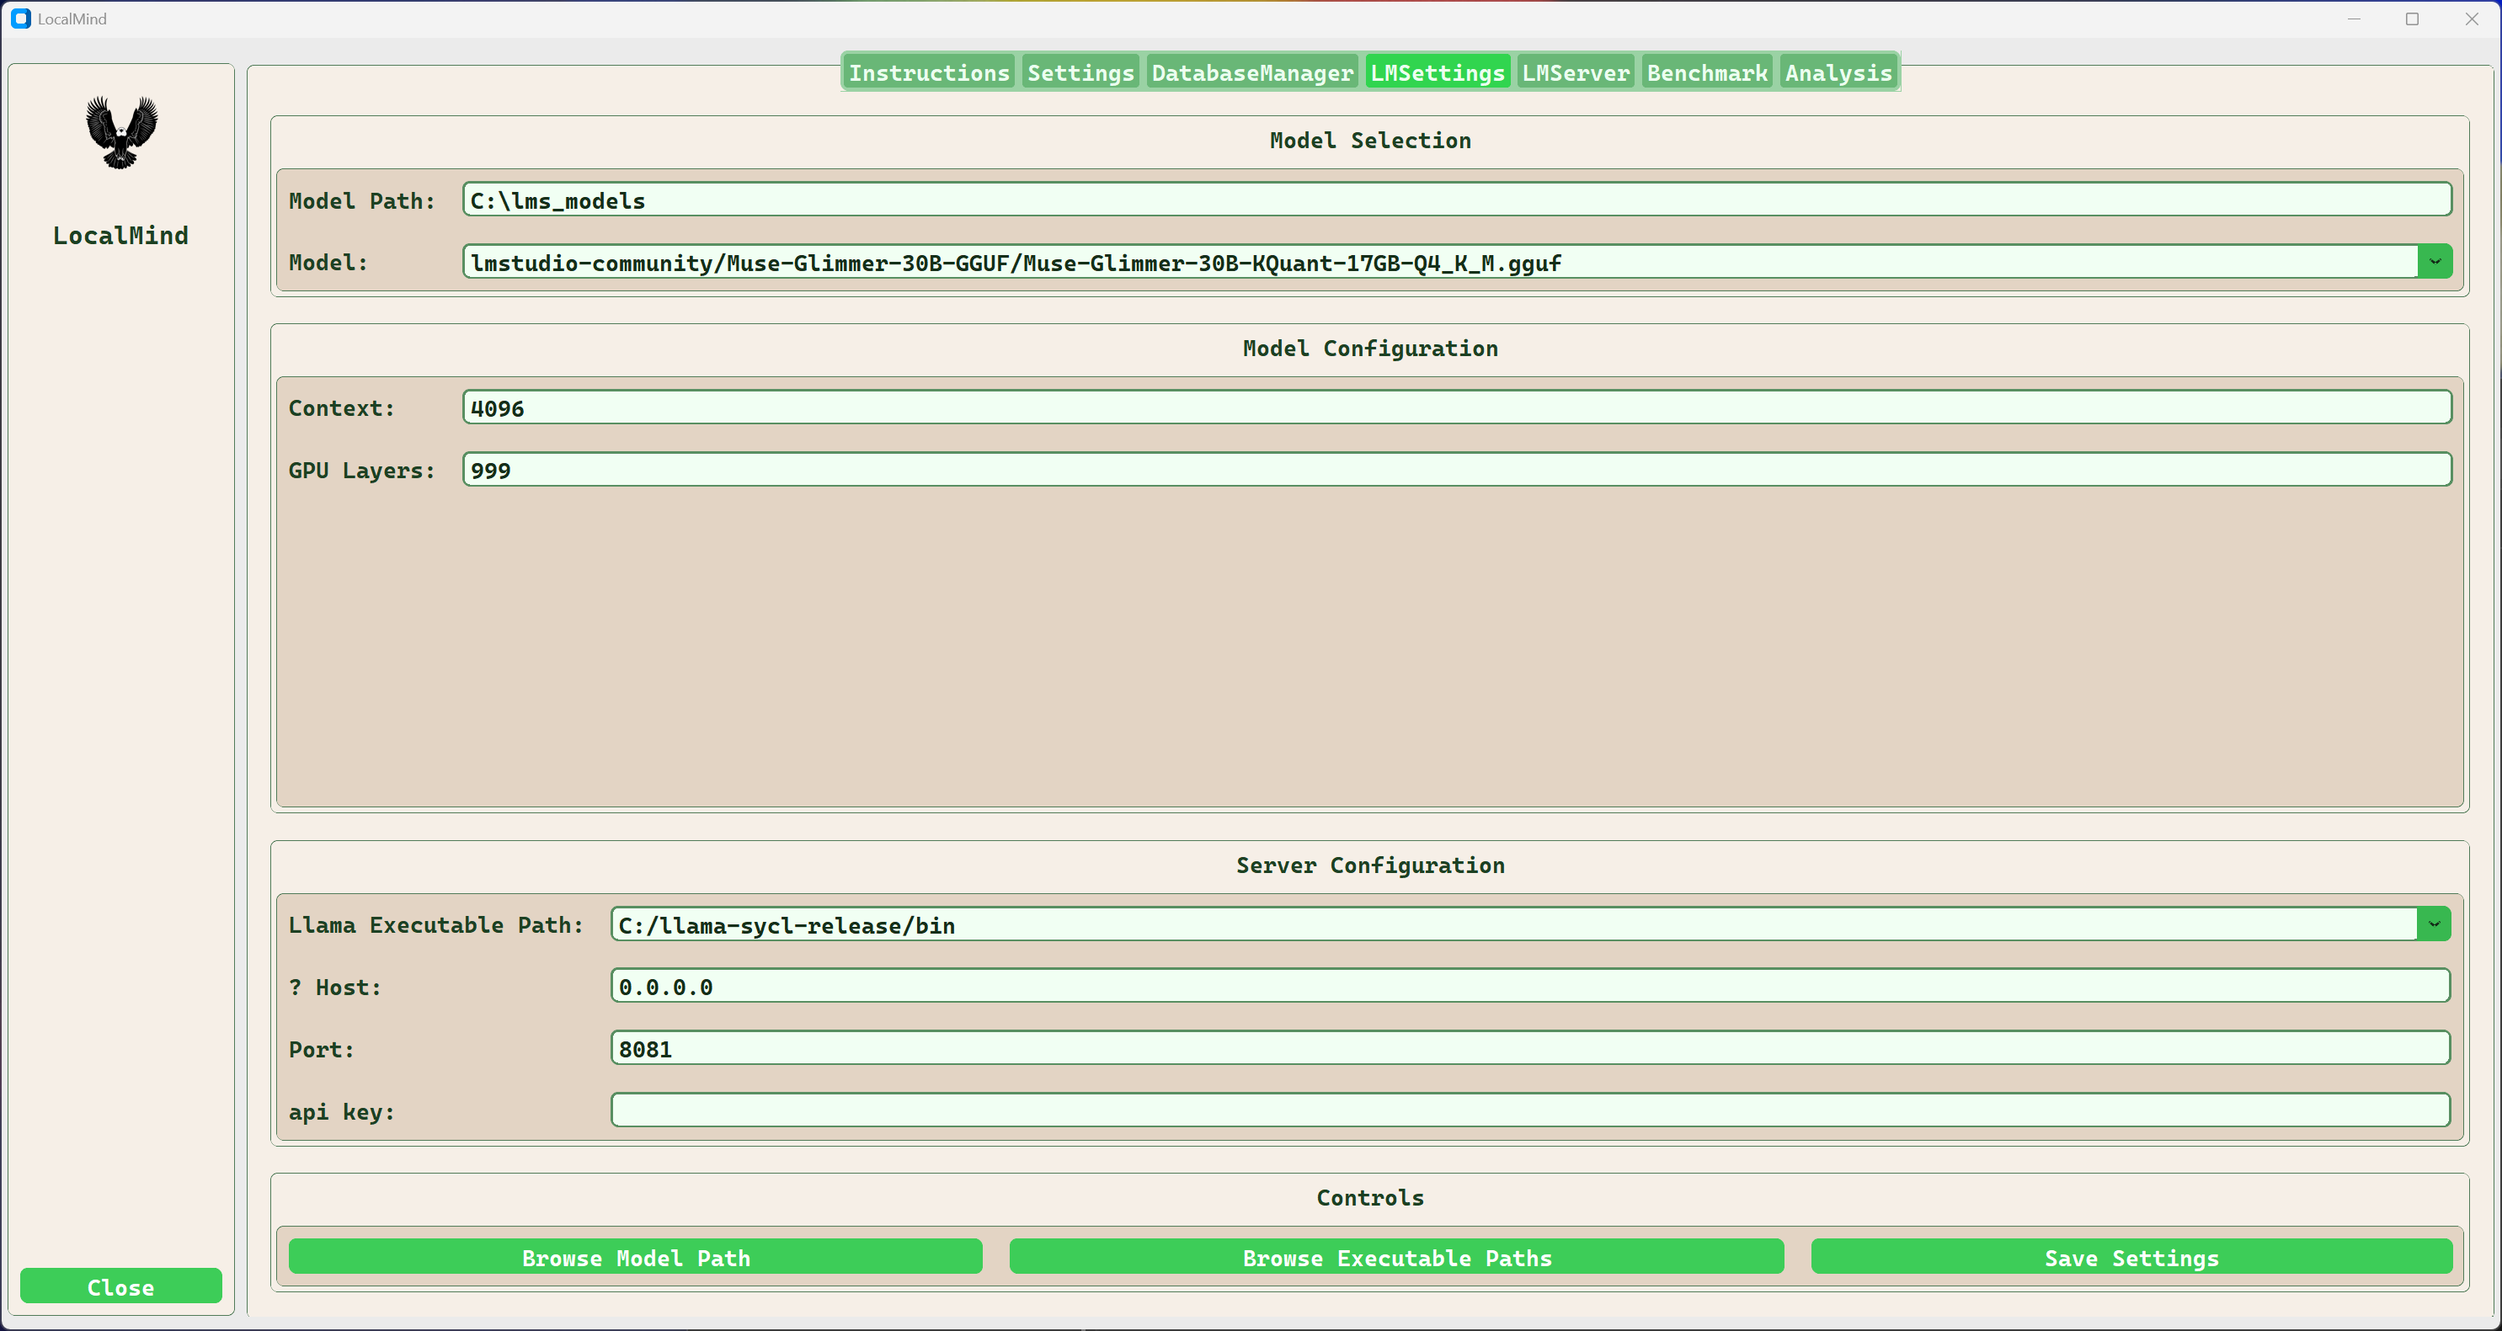
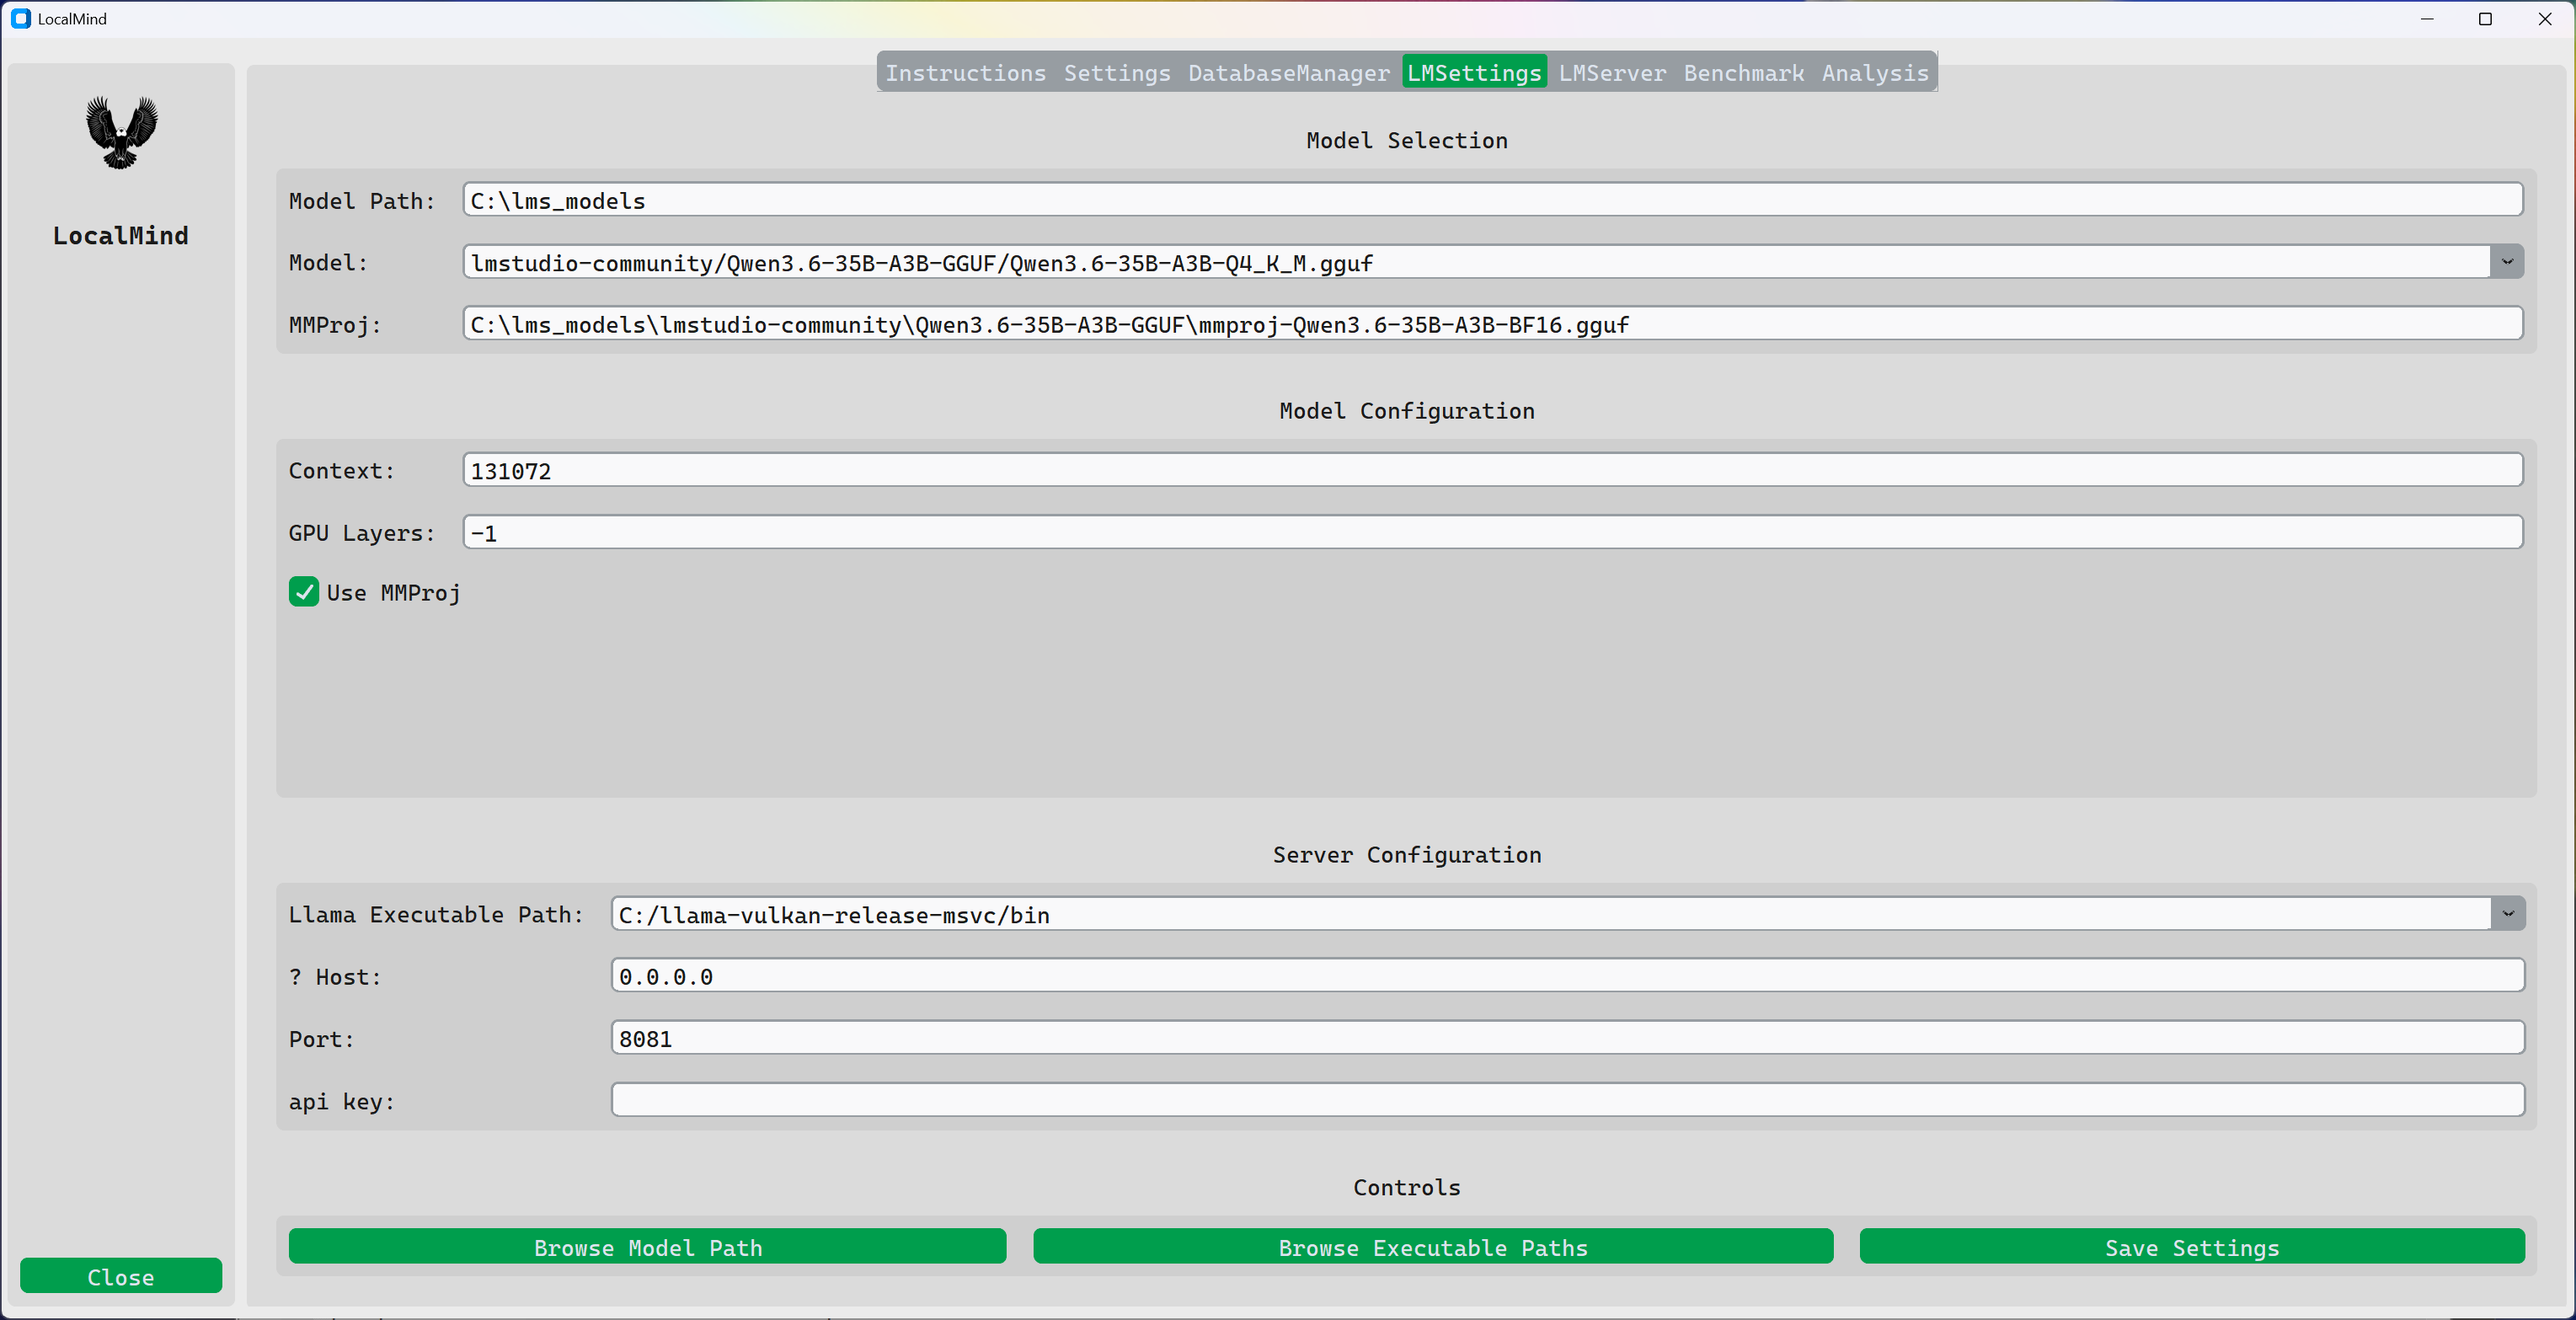
Updated documentation to reflect mmproj support.

diff --git a/src/localmind/widgets/CTkBoolListbox.py b/src/localmind/widgets/CTkBoolListbox.py
@@ -8,6 +8,7 @@ from typing import Optional
 class CTkBoolListbox(ctk.CTkToplevel):
 
     def is_number(self, s: str) -> bool:
+        """Check if the given string can be interpreted as a number."""
         try:
             float(s)
             return True

diff --git a/docs/LMSettings.md b/docs/LMSettings.md
@@ -17,16 +17,18 @@ All llama-server command line arguments can be configured using the Parameters b
 
 | Item | Values | Description |
 | :--- | :----- |:----------- |
-| Model Path | The path to your models | You can directly type in the model path or click the 'Browse Model Path' button to select the folder where your models are located |
-| Model | The selected model | All the gguf files stored in the models folder are displayed in the drop list. |
-| Context | The prompt context size | The maximim is specified for each model that can be found on huggingface<br>The amount of VRAM available to the model is the primary constraint. |
-| GPU Layers | | Max number of layers to store in VRAM either an exact number, auto, or All |
-| Llama Executable Path | Path to llama-server location | Use the 'Browse Executable Paths' button to populate the drop-list<br>Multple instalations of llama.cpp are supported |
-| Host | Any valid IP Address | The Value entered is checked when a value is entered. |
-| Port | A valid service port | The default is 8081, different from llama-server default |
-| api key | N/U | This value is not used for local models, leave it blank. |
-| Browse Model Path | Clicked | Select the folder that holds your models | This folder is recursively searched for all .gguf files }
-| Browse Executable Paths | A path llama.cpp installation folder | Once selected this path is added to the Llama Executable Path combo box |
+| **Model Path** | The path to your models | You can directly type in the model path or click the 'Browse Model Path' button to select the folder where your models are located |
+| **Model** | The selected model | All the gguf files stored in the models folder are displayed in the drop list. |
+| **MMProj Filename** | The Multimodal file | The multimodal file found with the selected model file. |
+| **Context** | The prompt context size | The maximum is specified for each model that can be found on huggingface<br>The amount of VRAM available to the model is the primary constraint. |
+| **GPU Layers** | | Max number of layers to store in VRAM either an exact number, auto, or All |
+| **Use MMProj** |Enable MMProj | This checkbox enables running llama-server with the --mmproj <Multimodal filename> | 
+| **Llama Executable Path** | Path to llama-server location | Use the 'Browse Executable Paths' button to populate the drop-list<br>Multple instalations of llama.cpp are supported |
+| **Host** | Any valid IP Address | The Value entered is checked when a value is entered. |
+| **Port** | A valid service port | The default is 8081, different from llama-server default |
+| **api key** | N/U | This value is not used for local models, leave it blank. |
+| **Browse Model Path** | Clicked | Select the folder that holds your models | This folder is recursively searched for all .gguf files }
+| **Browse Executable Paths** | A path llama.cpp installation folder | Once selected this path is added to the Llama Executable Path combo box |
 
 
 

diff --git a/docs/using_vision.md b/docs/using_vision.md
@@ -44,22 +44,22 @@ The mmproj file associated with the model must begin with or end with 'mmproj'.
 ```
 models
 ├── gemma-4-12B-it
-│		 ├── **gemma-4-12B-it-Q4_K_M.gguf**
-│		 └── *mmproj-gemma-4-12B-it-BF16.gguf*
+│		 ├── gemma-4-12B-it-Q4_K_M.gguf
+│		 └── mmproj-gemma-4-12B-it-BF16.gguf
 ├── gemma-4-E2B-it
-│		├── **gemma-4-E2B-it-Q4_K_M.gguf**
-│		├── **gemma-4-E2B-it-Q8_0.gguf**
-│		└── *mmproj-gemma-4-E2B-it-BF16.gguf*
+│		├── gemma-4-E2B-it-Q4_K_M.gguf
+│		├── gemma-4-E2B-it-Q8_0.gguf
+│		└── mmproj-gemma-4-E2B-it-BF16.gguf
 ├── gemma-4-E2B-it-QAT
-│		├── **gemma-4-E2B-it-QAT-Q4_0.gguf**
-│		└── *mmproj-gemma-4-E2B-it-QAT-BF16.gguf*
+│		├── gemma-4-E2B-it-QAT-Q4_0.gguf**
+│		└── mmproj-gemma-4-E2B-it-QAT-BF16.gguf
 ├── gemma-4-E4B-it
-│		├── **gemma-4-E4B-it-Q4_K_M.gguf**
-│		├── **gemma-4-E4B-it-Q8_0.gguf**
-│		└── *mmproj-gemma-4-E4B-it-BF16.gguf*
+│		├── gemma-4-E4B-it-Q4_K_M.gguf
+│		├── gemma-4-E4B-it-Q8_0.gguf
+│		└── mmproj-gemma-4-E4B-it-BF16.gguf
 ├── gemma-4-E4B-it-QAT
-│		├── **gemma-4-E4B-it-QAT-Q4_0.gguf**
-│		└── *mmproj-gemma-4-E4B-it-QAT-BF16.gguf*
+│		├── gemma-4-E4B-it-QAT-Q4_0.gguf
+│		└── mmproj-gemma-4-E4B-it-QAT-BF16.gguf
 ├── granite-4.1-3b
 │		├── granite-4.1-3b-Q4_K_M.gguf
 │		└── granite-4.1-3b-Q8_0.gguf

diff --git a/docs/llama.cpp.md b/docs/llama.cpp.md
@@ -1,6 +1,6 @@
 # Building llama.cpp for LocalMind
 
-LocalMind can use llama.cpp builds with CPU, SYCL, or Vulkan backends.
+LocalMind can use llama.cpp builds with CPU, CUDA, SYCL, or Vulkan backends.
 
 The systems used during LocalMind development include:
 
